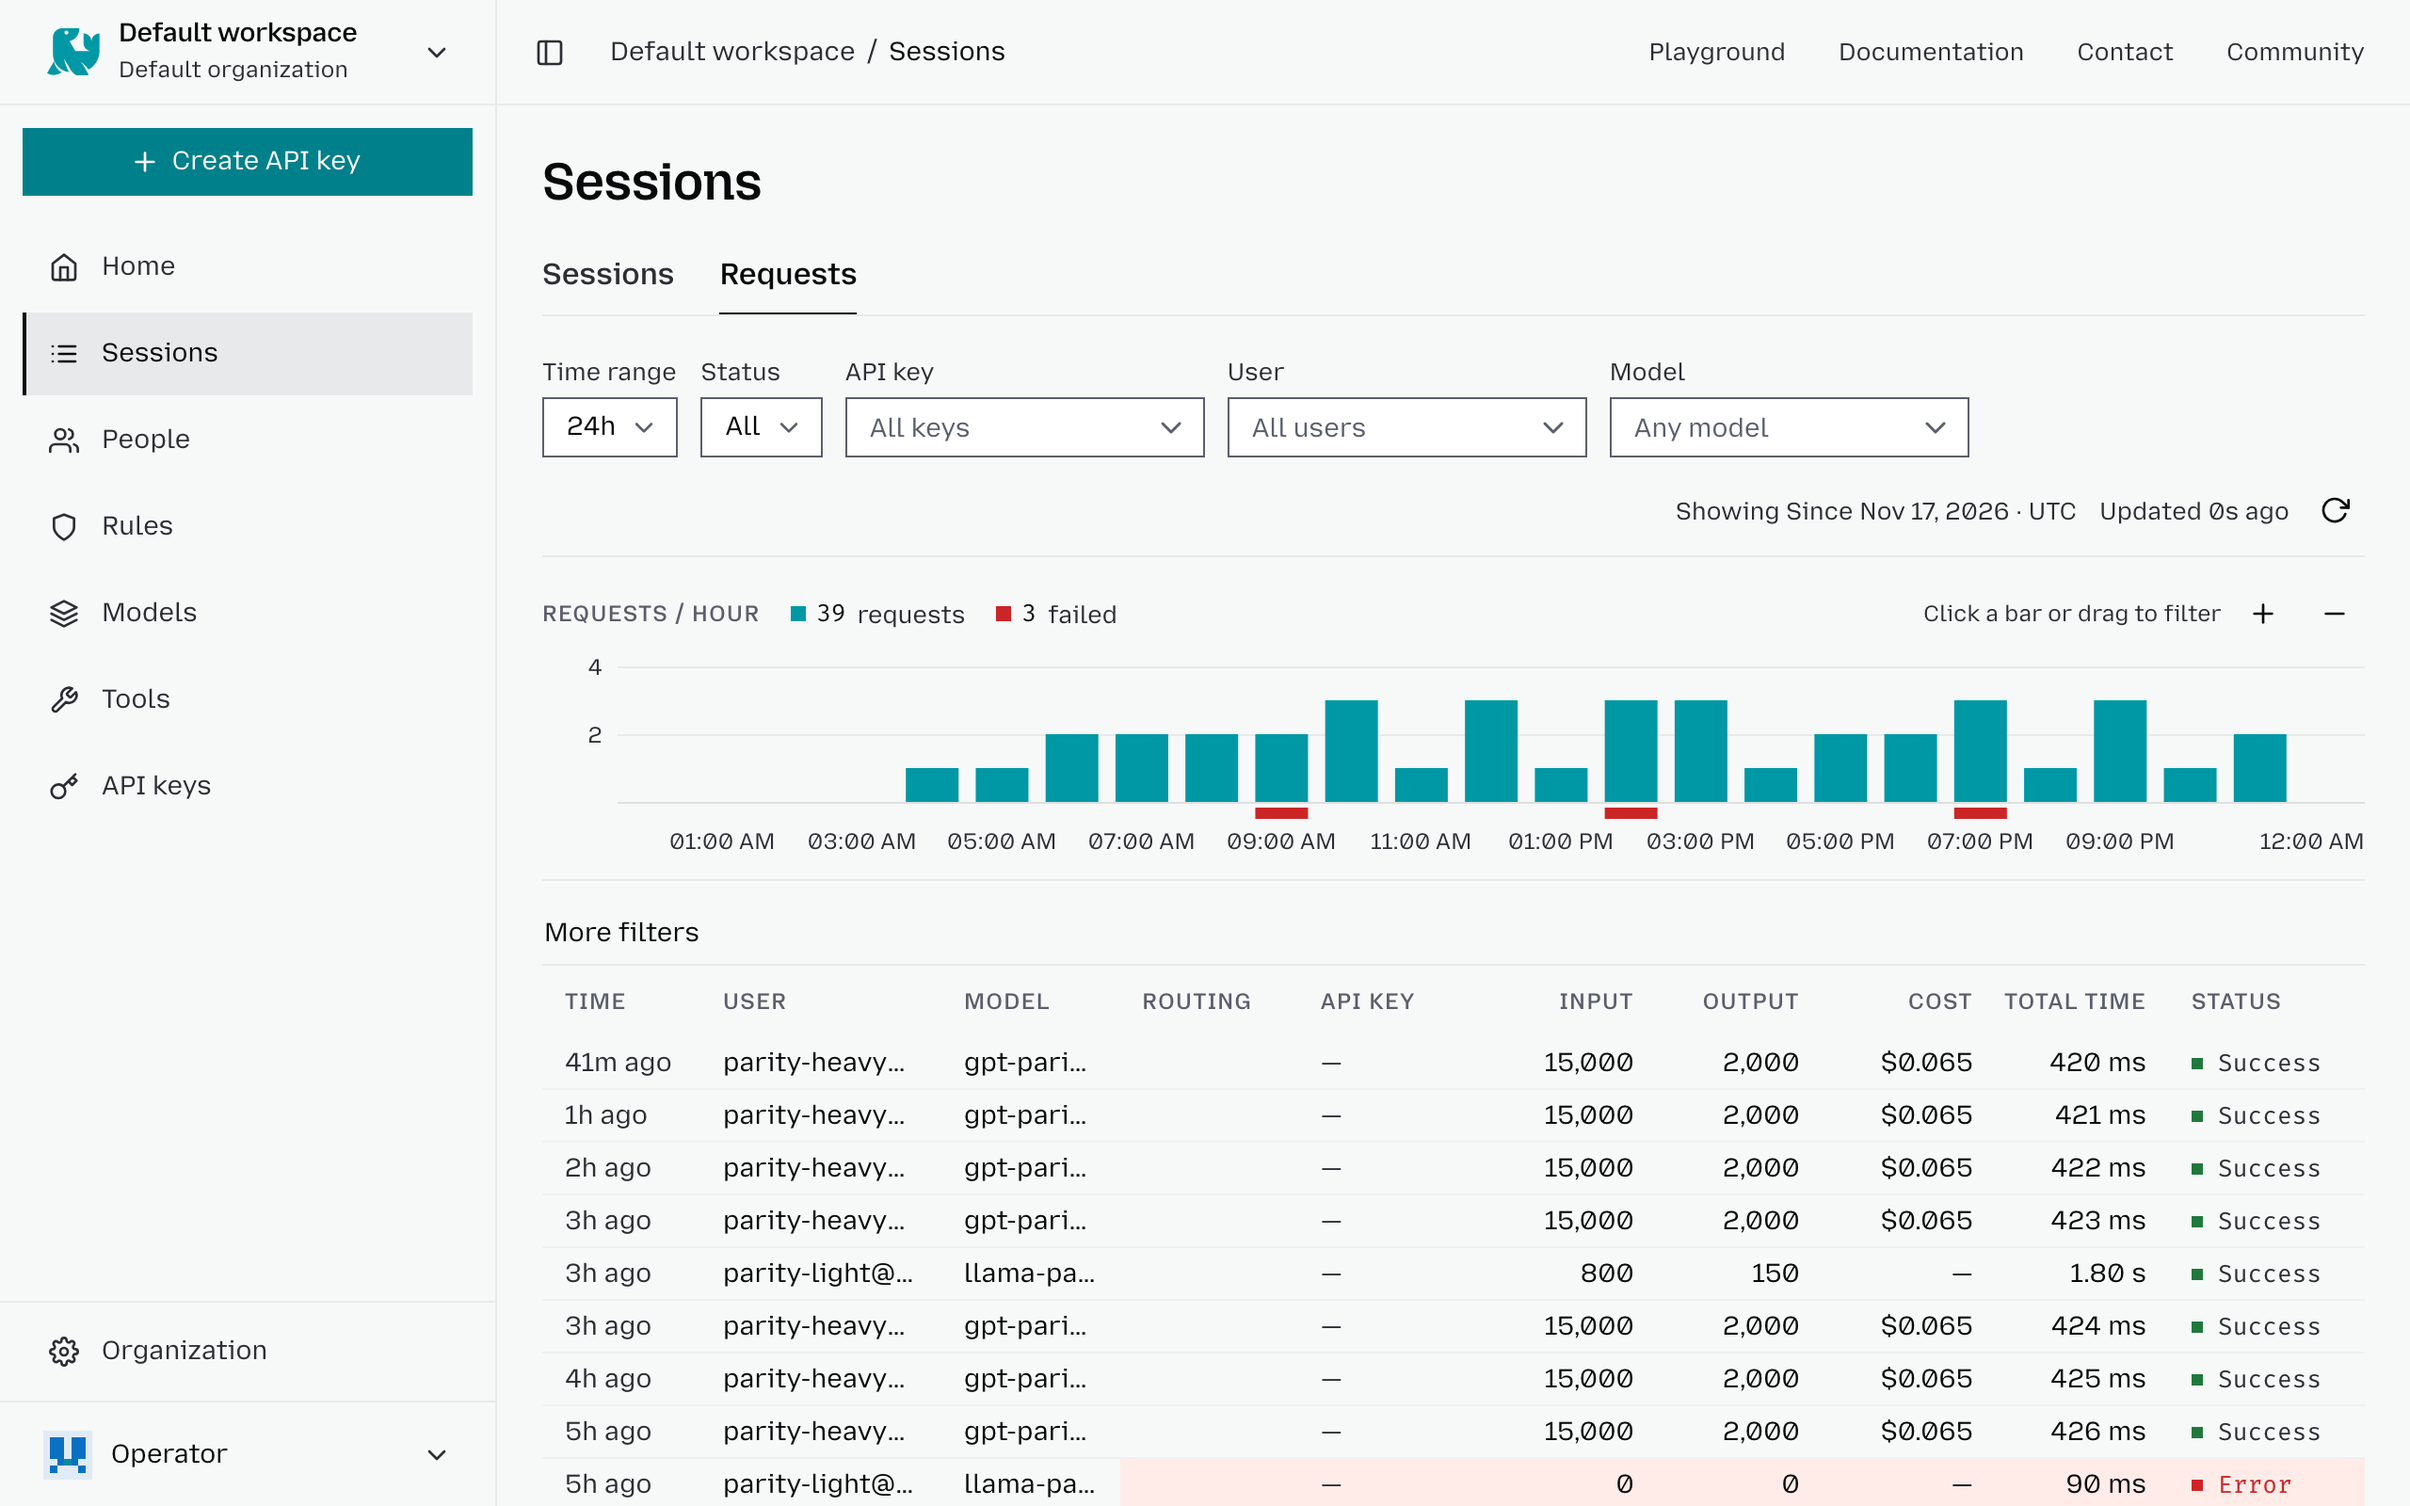
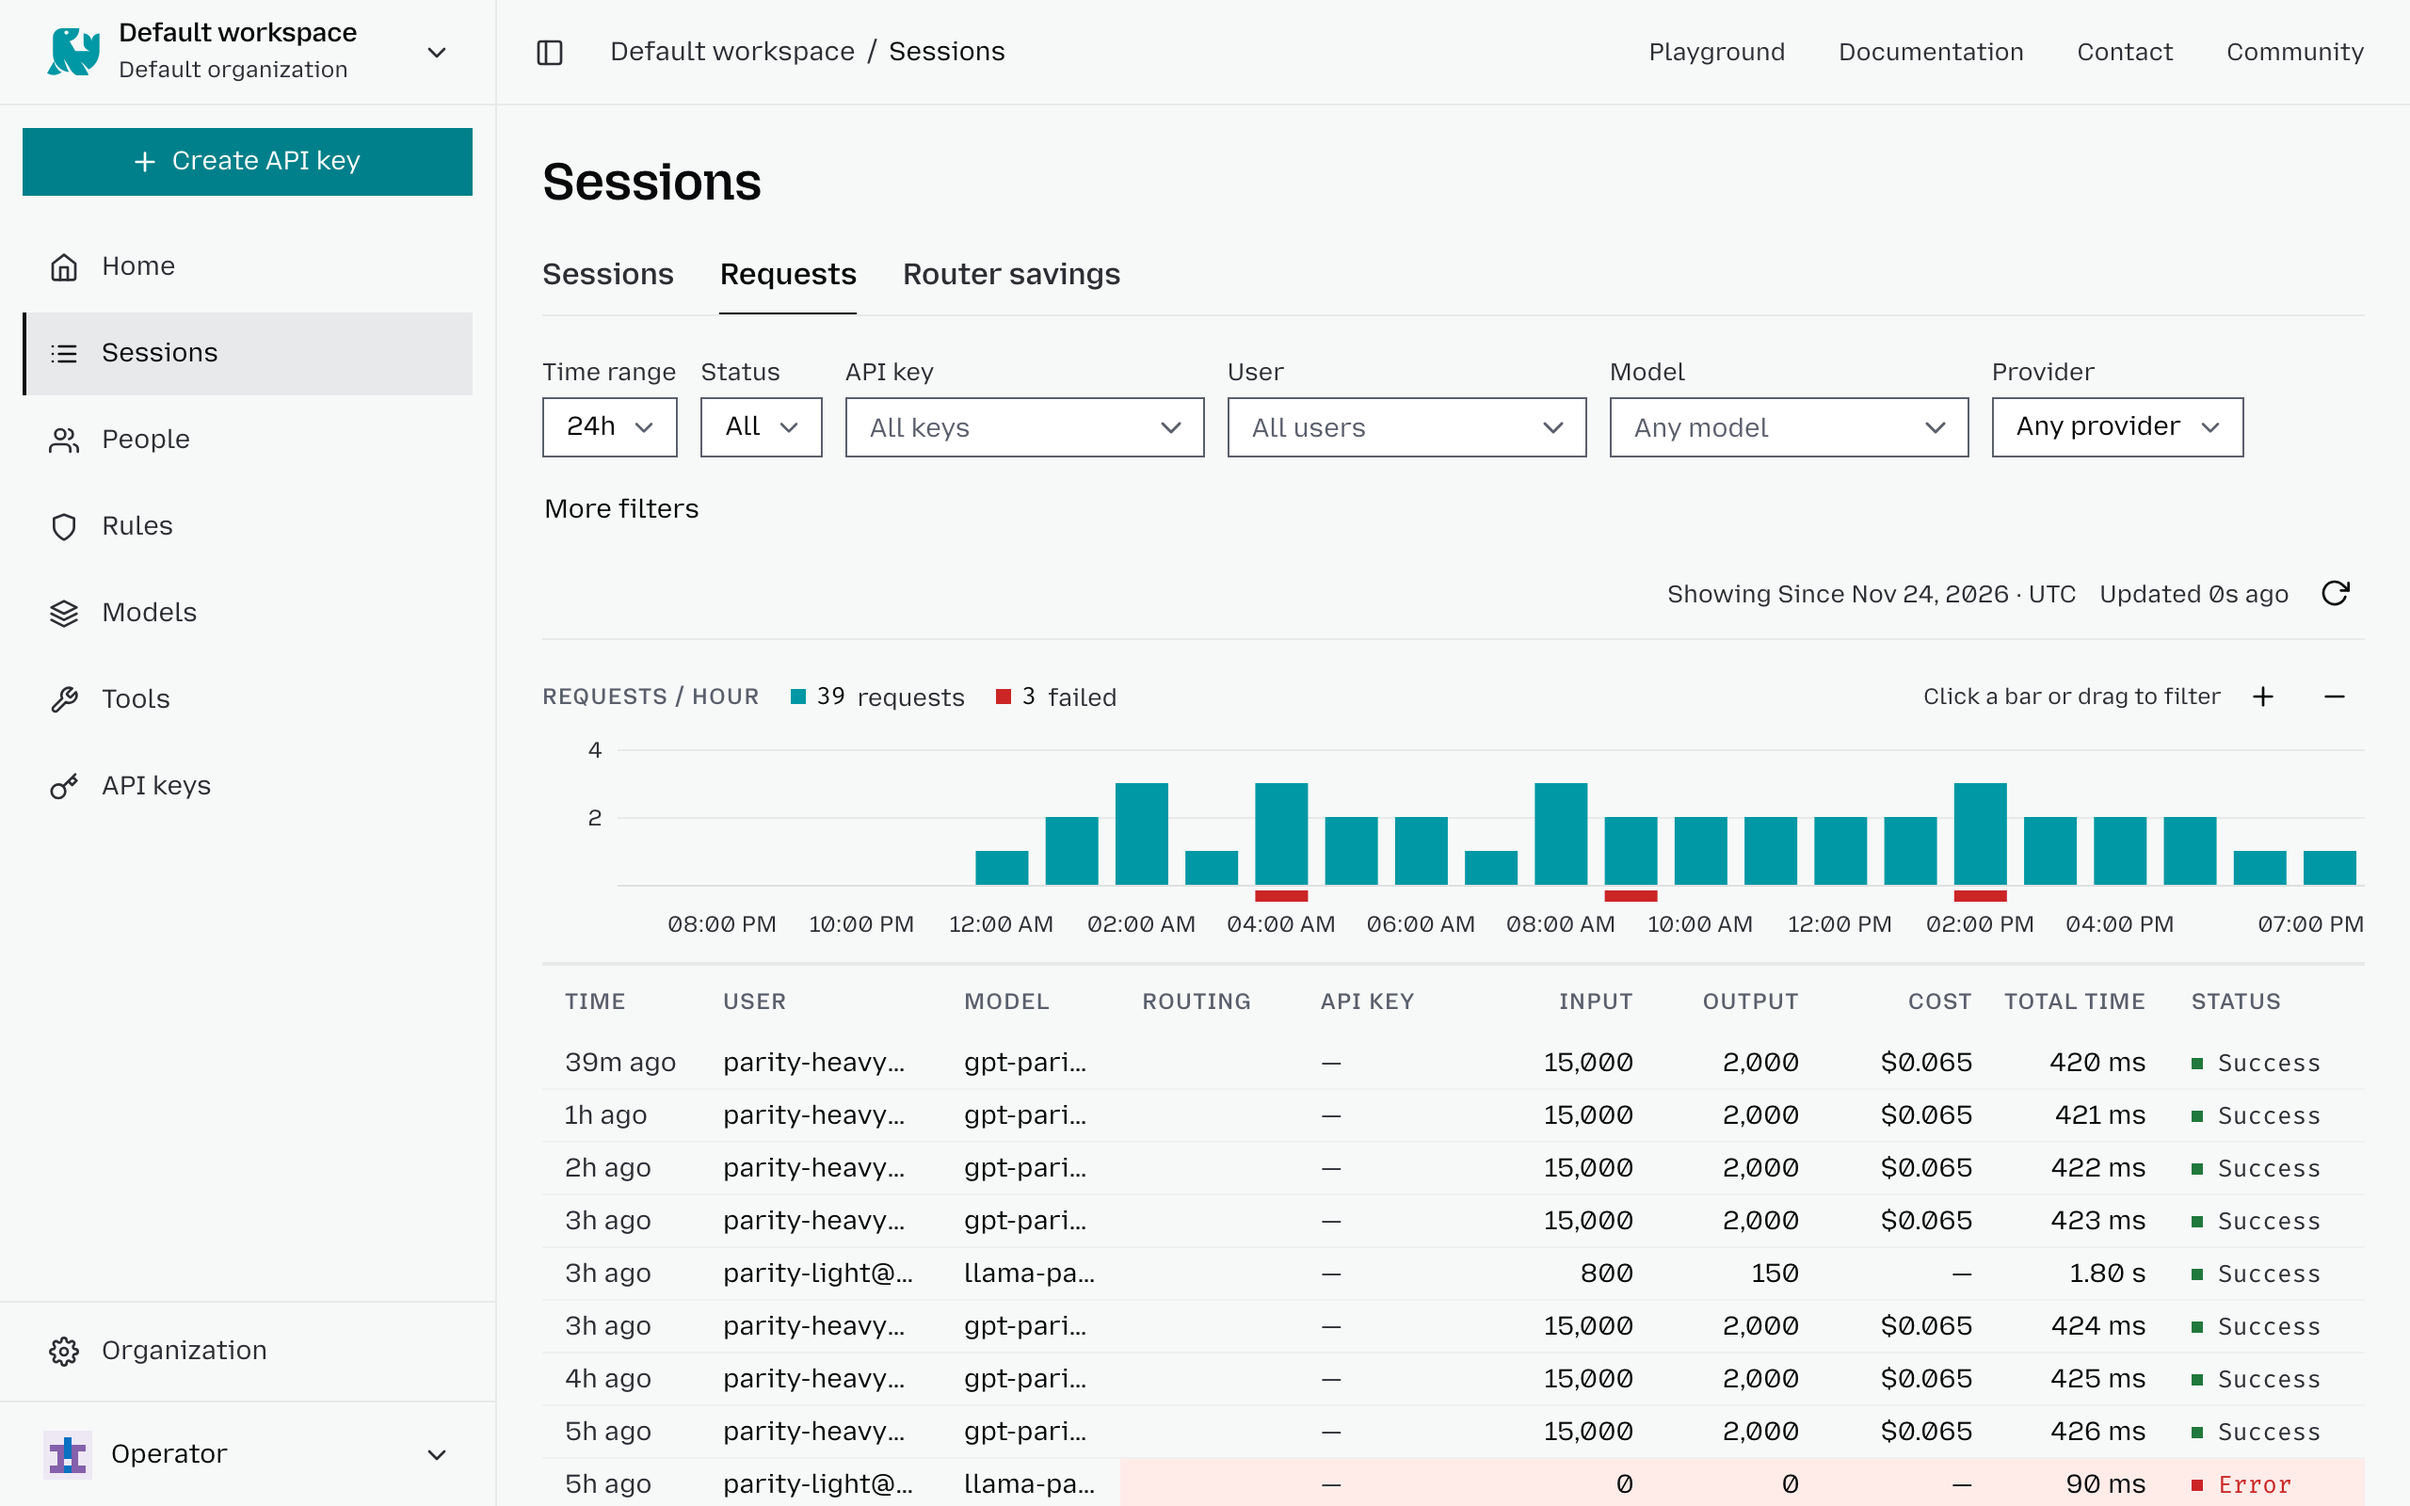
fix(dashboard): put More filters under the Requests tab's filters, above the chart

diff --git a/web/src/features/activity/ActivityPage.tsx b/web/src/features/activity/ActivityPage.tsx
@@ -859,6 +859,56 @@ function ActivityPageContent({
         />
 
         <div className="flex flex-col gap-3">
+          {/* Under the layout's filters, as their continuation, rather than
+            under the timeline, where it read as a heading over the table. */}
+          <FilterChips chips={filterChips} toggleLabel="More filters">
+            <FilterSelect
+              label="Priced?"
+              value={pricedFilter}
+              onChange={(value) => url.patch({ priced: value })}
+              options={PRICED_OPTIONS}
+            />
+            {/* Only offered once a hosted provider served something in the
+              window, following the tool select below. */}
+            {paidByFilter ||
+            contextSummary.data?.totals?.deployment_paid_cost ? (
+              <FilterSelect
+                label="Paid by"
+                value={paidByFilter}
+                onChange={(value) => url.patch({ paid_by: value })}
+                options={PAID_BY_OPTIONS}
+              />
+            ) : null}
+            {/* Only offered once the window actually contains tool usage, following the
+              source select below: a filter whose every option returns nothing is
+              noise on the majority of gateways, which run no tools at all. */}
+            {toolFilter || contextSummary.data?.by_tool?.length ? (
+              <FilterSelect
+                label="Tool"
+                value={toolFilter}
+                onChange={(value) => url.patch({ tool: value })}
+                options={TOOL_OPTIONS}
+              />
+            ) : null}
+            {/* Provenance only earns a select once there is more than one source
+              to choose between: most gateways see only their own traffic, and a
+              filter with a single option is noise. A drill-down that arrives
+              with a source applied keeps the select so it stays clearable. */}
+            {sourceOptions.length > 1 || sourceFilter ? (
+              <FilterSelect
+                label="Source"
+                value={sourceFilter}
+                onChange={(value) => url.patch({ source: value })}
+                options={[
+                  { value: "", label: "All" },
+                  ...sourceOptions.map((source) => ({
+                    value: source,
+                    label: describeSource(source),
+                  })),
+                ]}
+              />
+            ) : null}
+          </FilterChips>
           <ActivityTimeline
             presets={ACTIVITY_PRESETS}
             hidePresets={embedded}
@@ -916,54 +966,6 @@ function ActivityPageContent({
               </span>
             }
           />
-          <FilterChips chips={filterChips} toggleLabel="More filters">
-            <FilterSelect
-              label="Priced?"
-              value={pricedFilter}
-              onChange={(value) => url.patch({ priced: value })}
-              options={PRICED_OPTIONS}
-            />
-            {/* Only offered once a hosted provider served something in the
-              window, following the tool select below. */}
-            {paidByFilter ||
-            contextSummary.data?.totals?.deployment_paid_cost ? (
-              <FilterSelect
-                label="Paid by"
-                value={paidByFilter}
-                onChange={(value) => url.patch({ paid_by: value })}
-                options={PAID_BY_OPTIONS}
-              />
-            ) : null}
-            {/* Only offered once the window actually contains tool usage, following the
-              source select below: a filter whose every option returns nothing is
-              noise on the majority of gateways, which run no tools at all. */}
-            {toolFilter || contextSummary.data?.by_tool?.length ? (
-              <FilterSelect
-                label="Tool"
-                value={toolFilter}
-                onChange={(value) => url.patch({ tool: value })}
-                options={TOOL_OPTIONS}
-              />
-            ) : null}
-            {/* Provenance only earns a select once there is more than one source
-              to choose between: most gateways see only their own traffic, and a
-              filter with a single option is noise. A drill-down that arrives
-              with a source applied keeps the select so it stays clearable. */}
-            {sourceOptions.length > 1 || sourceFilter ? (
-              <FilterSelect
-                label="Source"
-                value={sourceFilter}
-                onChange={(value) => url.patch({ source: value })}
-                options={[
-                  { value: "", label: "All" },
-                  ...sourceOptions.map((source) => ({
-                    value: source,
-                    label: describeSource(source),
-                  })),
-                ]}
-              />
-            ) : null}
-          </FilterChips>
         </div>
 
         <div className="flex flex-col gap-3">
